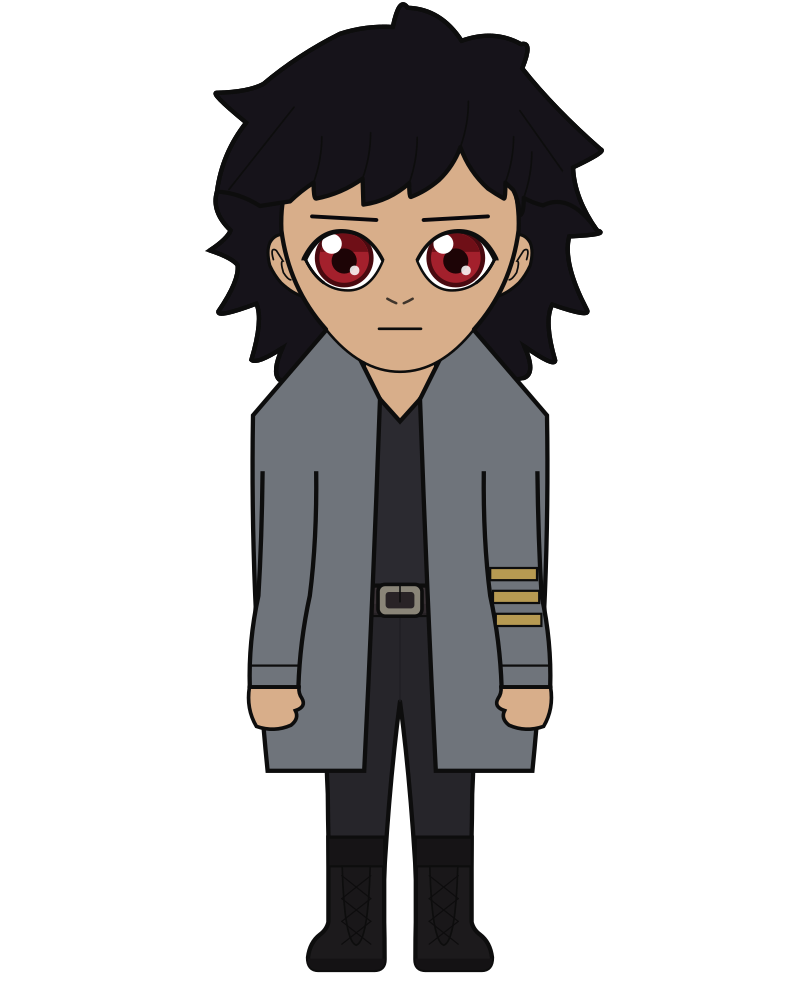
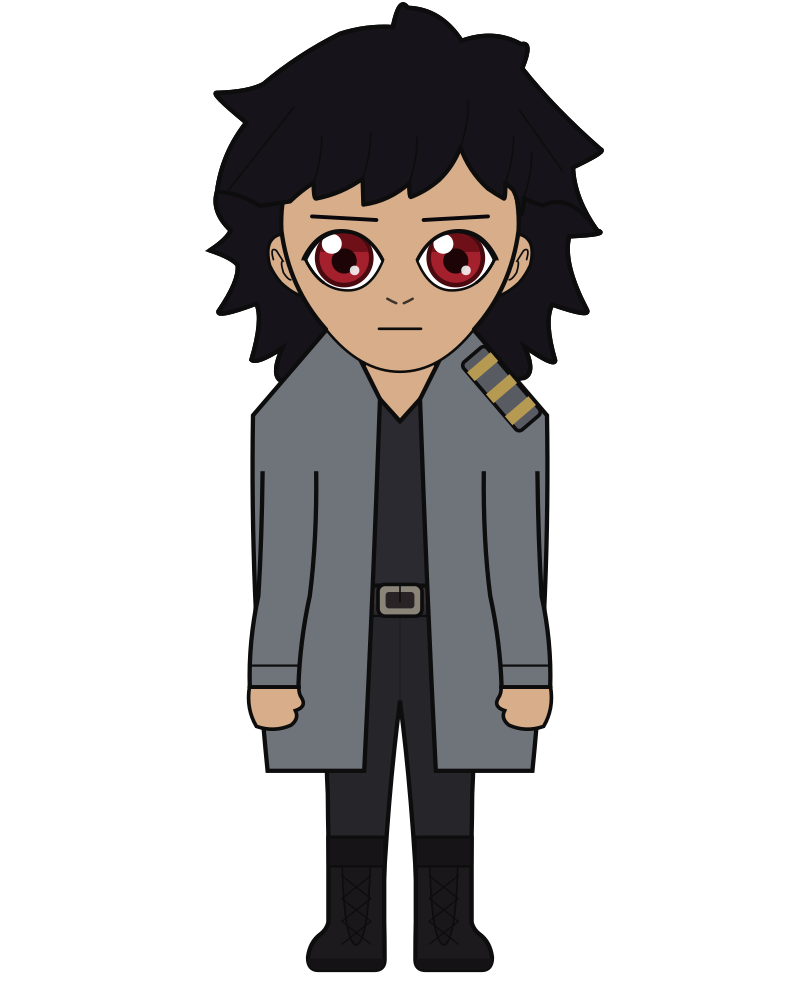
outfit: rank bars move from the forearm to a shoulder board on the coat (shoulder_bars_*); Dritan wears it on his left shoulder; only his render changes

Changed region(s): [[0.5938, 0.558, 0.6875, 0.651], [0.5625, 0.341, 0.6875, 0.434]]

diff --git a/src/anime_character_creator/character.py b/src/anime_character_creator/character.py
@@ -373,13 +373,13 @@ class Outfit:
     wristband_color: str | None = None
     wristband_text: str | None = None
     wristband_side: int = 1
-    # Rank bars across one sleeve above the cuff: their color (`None` for none),
-    # how many (one to four read at chibi scale), and the side they are worn on,
-    # as for the wristband. Drawn on a plain sleeve only; a traced sleeve has
-    # its own cuff and no room for them.
-    sleeve_bars_color: str | None = None
-    sleeve_bars: int = 3
-    sleeve_bars_side: int = 1
+    # A shoulder board with rank bars on one shoulder of the coat: the bars' color
+    # (`None` for none), how many (one to four read at chibi scale), and the side
+    # it is worn on, as for the wristband. Needs a coat (the parametric one, not a
+    # traced cut), the way the pouches need a belt.
+    shoulder_bars_color: str | None = None
+    shoulder_bars: int = 3
+    shoulder_bars_side: int = 1
     # A pointed witch's hat: crown, brim and the band at the crown's base. Its
     # own color rather than reusing `hair_color`/`coat_color`, because a hat
     # is not necessarily dyed to match either, and the reference this shipped
@@ -8045,12 +8045,6 @@ def _arms(
             limb.append(_cuff_line(sk, x(centre_wrist), wrist_y, w_wrist))
         elif cut is None and (p.outfit.undersleeve_color is not None or long_sleeve):
             limb.append(_wrist_cuff(sk, sleeve, x(centre_wrist), wrist_y, w_wrist))
-        if cut is None:
-            limb.append(
-                _sleeve_bars(
-                    sk, p, s, x, centre_elbow, centre_wrist, elbow_y, wrist_y, w_elbow, w_wrist
-                )
-            )
         limb.append(_wristband(sk, p, s, x(centre_wrist), wrist_y, w_wrist))
         hand = _hand(sk, p, x(centre_wrist), wrist_y, w_wrist, s)
         if hands is None and _hand_traced(p, s):
@@ -8133,43 +8127,56 @@ def _wristband(
     )
 
 
-def _sleeve_bars(
-    sk: Skeleton,
-    p: CharacterParams,
-    side: int,
-    x: Callable[[float], float],
-    centre_elbow: float,
-    centre_wrist: float,
-    elbow_y: float,
-    wrist_y: float,
-    w_elbow: float,
-    w_wrist: float,
-) -> str:
-    """Rank bars across the forearm, above the cuff, on one sleeve.
+def _shoulder_bars(sk: Skeleton, p: CharacterParams) -> str:
+    """A shoulder board with rank bars, on the coat's shoulder.
 
-    Each bar is a thin strip across the arm at its own height, as wide as the
-    arm there (read off the same elbow-to-wrist taper `_arms` draws) and a
-    little inside it so the outline stays the arm's. The first bar sits clear of
-    the cuff line and the rest stack up the arm.
+    The board lies along the coat's own shoulder line, between the lapel point
+    and the shoulder point (the two `_coat` draws its panel through), tilted to
+    that slope, a darker tone of the coat with the bars across it, perpendicular
+    to its length the way a board's bars run. Drawn after the arms and the coat,
+    so nothing covers it, and before the collar and the head, which are over the
+    neck either way. Nothing without a plain coat: the formula is the coat's.
     """
-    color = p.outfit.sleeve_bars_color
-    if color is None or p.outfit.sleeve_bars_side != side or p.outfit.sleeve_bars < 1:
+    color = p.outfit.shoulder_bars_color
+    if color is None or p.outfit.coat_color is None or _traced_coat(sk, p):
         return ""
-    r = sk.head_r
+    if p.outfit.shoulder_bars < 1:
+        return ""
+    side = p.outfit.shoulder_bars_side
+    cx, r = sk.head_cx, sk.head_r
     sw = _stroke_w(sk)
-    h = r * 0.09
-    pitch = r * 0.17
-    parts = []
-    for i in range(min(4, p.outfit.sleeve_bars)):
-        y = wrist_y - r * 0.50 - i * pitch
-        t = (y - elbow_y) / (wrist_y - elbow_y)
-        centre = centre_elbow + (centre_wrist - centre_elbow) * t
-        half = (w_elbow + (w_wrist - w_elbow) * t) * 0.90
-        parts.append(
-            f'<rect x="{x(centre) - half:.1f}" y="{y - h / 2:.1f}" width="{half * 2:.1f}" height="{h:.1f}" '
-            f'fill="{color}" stroke="{OUTLINE}" stroke-width="{_interior_w(sw, 0.7):.2f}" />'
-        )
-    return "".join(parts)
+    sy = sk.shoulder_y
+    shoulder_w = _sleeve_half_w(sk) * 0.92
+    lapel_x = sk.neck_half_w * _COAT_LAPEL_OUT
+    lapel_y = sy - sk.neck_half_w * _COAT_LAPEL_UP
+    shoulder_y = sy + (sk.waist_y - sy) * 0.16
+    dx, dy = shoulder_w - lapel_x, shoulder_y - lapel_y
+    length = math.hypot(dx, dy)
+    angle = math.degrees(math.atan2(dy, dx))
+    # Centred on the outer part of the slope, a little proud of the cloth it sits on.
+    t = 0.62
+    half_l, half_w = length * 0.34, r * 0.115
+    # Pushed in from the line by about its own half width, along the slope's normal
+    # toward the body, so it lies on the cloth and not along its outline.
+    nx, ny = -dy / length, dx / length
+    bx = cx + side * (lapel_x + dx * t + nx * half_w * 1.1)
+    by = lapel_y + dy * t + ny * half_w * 1.1
+    n = min(4, p.outfit.shoulder_bars)
+    bar_w = half_l * 2 * 0.13
+    span = half_l * 1.30
+    bars = "".join(
+        f'<rect x="{(-span / 2 + (span * i / (n - 1) if n > 1 else span / 2)) - bar_w / 2:.1f}" '
+        f'y="{-half_w:.1f}" width="{bar_w:.1f}" height="{half_w * 2:.1f}" fill="{color}" />'
+        for i in range(n)
+    )
+    board = (
+        f'<rect x="{-half_l:.1f}" y="{-half_w:.1f}" width="{half_l * 2:.1f}" height="{half_w * 2:.1f}" '
+        f'rx="{half_w * 0.3:.1f}" fill="{shade(p.outfit.coat_color)}" stroke="{OUTLINE}" '
+        f'stroke-width="{_outline_w(sw, 0.85):.2f}" stroke-linejoin="round" />'
+    )
+    return (
+        f'<g transform="translate({bx:.1f} {by:.1f}) rotate({side * angle:.2f})">{board}{bars}</g>'
+    )
 
 
 def _hands_after_coat(sk: Skeleton, p: CharacterParams) -> bool:
@@ -11548,6 +11555,8 @@ def render_character(
         _traced_coat_and_belt(sk, p),
         # The hands over a coat worn over the arms; see the function.
         _arms(sk, p, hands=True) if _hands_after_coat(sk, p) else "",
+        # On the coat's shoulder, over the arms and the coat and under the collar.
+        _shoulder_bars(sk, p),
         # After the arms and before the ear: a standing collar wraps the throat,
         # so it belongs over the neck and the tunic's V, and it is the one
         # garment high enough that the head has to be drawn after it. A mock

diff --git a/tests/test_smoke.py b/tests/test_smoke.py
@@ -2546,14 +2546,29 @@ def test_the_wristband_is_worn_on_one_wrist_only_and_carries_its_text() -> None:
     assert character._arms(sk, other) != svg, "the two sides should not draw the same band"
 
 
-def test_the_sleeve_bars_are_counted_on_one_sleeve() -> None:
-    """Three bars asked for are three bars drawn, on one arm, in the color given."""
+def test_the_shoulder_bars_are_counted_on_one_shoulder_of_a_coat() -> None:
+    """Three bars asked for are three bars drawn, on a plain coat's shoulder.
+
+    Nothing without a coat or a color; the side picks the mirror image; the board
+    is a tilted group, so the bars are read off the group's own rects.
+    """
     p = PRESETS["gero"]
     sk = character.skeleton_for(p)
-    assert 'fill="#b79a52"' not in character._arms(sk, p)
+    assert p.outfit.coat_color is not None
+    assert character._shoulder_bars(sk, p) == ""
     worn = replace(
-        p, outfit=replace(p.outfit, sleeve_bars_color="#b79a52", sleeve_bars=3, sleeve_bars_side=1)
+        p,
+        outfit=replace(
+            p.outfit, shoulder_bars_color="#b79a52", shoulder_bars=3, shoulder_bars_side=1
+        ),
     )
-    assert character._arms(sk, worn).count('fill="#b79a52"') == 3
-    one = replace(worn, outfit=replace(worn.outfit, sleeve_bars=1))
-    assert character._arms(sk, one).count('fill="#b79a52"') == 1
+    svg = character._shoulder_bars(sk, worn)
+    assert svg.count('fill="#b79a52"') == 3
+    one = replace(worn, outfit=replace(worn.outfit, shoulder_bars=1))
+    assert character._shoulder_bars(sk, one).count('fill="#b79a52"') == 1
+    other = replace(worn, outfit=replace(worn.outfit, shoulder_bars_side=-1))
+    assert character._shoulder_bars(sk, other) != svg, (
+        "the two sides should not draw the same board"
+    )
+    coatless = replace(worn, outfit=replace(worn.outfit, coat_color=None))
+    assert character._shoulder_bars(sk, coatless) == ""

diff --git a/src/anime_character_creator/presets.py b/src/anime_character_creator/presets.py
@@ -1151,8 +1151,8 @@ LINNEA = CharacterParams(
 # that sets him apart from the pale nobles he was raised among. Garnet eyes: his
 # kind's eyes show red under the white lamps they build for themselves and read
 # brown by day, and a cover is lit like a lamp. A long gray coat worn closed
-# over a dark tunic, the coat's own sleeves, and three brass rank bars on the
-# left sleeve (the viewer's right), so `coat_sleeves` and `sleeve_bars` carry
+# over a dark tunic, the coat's own sleeves, and three brass rank bars on a
+# shoulder board on the left shoulder (the viewer's right), so `coat_sleeves` and `shoulder_bars` carry
 # most of his silhouette, the way the coat carries Gero's. Level and watchful,
 # a little dry: no blush, a mouth that neither smiles nor frowns.
 DRITAN = CharacterParams(
@@ -1174,9 +1174,9 @@ DRITAN = CharacterParams(
         coat_color="#6f747b",
         coat_length=0.72,
         coat_sleeves=True,
-        sleeve_bars_color="#b79a52",
-        sleeve_bars=3,
-        sleeve_bars_side=1,
+        shoulder_bars_color="#b79a52",
+        shoulder_bars=3,
+        shoulder_bars_side=1,
     ),
     # Lean, not broad: a noble's frame rather than a soldier's.
     frame=0.3,

diff --git a/src/anime_character_creator/catalogue.py b/src/anime_character_creator/catalogue.py
@@ -332,14 +332,15 @@ WRISTBAND = GarmentSlot(
         SelectField("wristband_text", "Print", ((None, "Plain"), ("0000", "Numbered"))),
     ),
 )
-SLEEVE_BARS = GarmentSlot(
-    "sleeve_bars",
-    "Sleeve bars",
-    _color("sleeve_bars_color", "Sleeve bars"),
-    ranges=(RangeField("sleeve_bars", "Bars", 1, 4),),
+SHOULDER_BARS = GarmentSlot(
+    "shoulder_bars",
+    "Shoulder bars",
+    _color("shoulder_bars_color", "Shoulder bars"),
+    ranges=(RangeField("shoulder_bars", "Bars", 1, 4),),
     selects=(
-        SelectField("sleeve_bars_side", "Side", ((-1, "Viewer's left"), (1, "Viewer's right"))),
+        SelectField("shoulder_bars_side", "Side", ((-1, "Viewer's left"), (1, "Viewer's right"))),
     ),
+    requires="coat",
 )
 HAT = GarmentSlot("hat", "Witch hat", _color("hat_color", "Witch hat"))
 # The shape is a choice rather than a fixed part: all five candidates were drawn
@@ -443,7 +444,7 @@ GARMENTS: tuple[GarmentSlot, ...] = (
     BLINDFOLD,
     MASK,
     WRISTBAND,
-    SLEEVE_BARS,
+    SHOULDER_BARS,
     HAIR_CLIP,
     HAT,
     HAT_BAND,

diff --git a/STATUS.md b/STATUS.md
@@ -1726,8 +1726,11 @@ render changed (`./refresh-ref-out.sh` reported 0 changed each time):
   so the jaw tucks its top edge, with ear loops (`_mask`).
 - `wristband_color`, `wristband_text`, `wristband_side`: a band round one wrist, with a
   short print (`_wristband`, inside `_arms`, so it turns with a swung arm).
-- `sleeve_bars_color`, `sleeve_bars`, `sleeve_bars_side`: one to four rank bars on one
-  plain sleeve (`_sleeve_bars`, inside `_arms`; not drawn on a traced sleeve).
+- `shoulder_bars_color`, `shoulder_bars`, `shoulder_bars_side`: a shoulder board with one
+  to four rank bars on one shoulder of a plain coat (`_shoulder_bars`, after the arms and
+  before the collar; needs a coat, not drawn on a traced cut). First drawn as bars across
+  the forearm and moved to the shoulder the same day, on the owner's note that rank sits
+  on the shoulder.
 
 Looked at on a long cut, a short cut, a swung arm and a hat; the cross-check is in that
 story's `cover_plan.md`.
